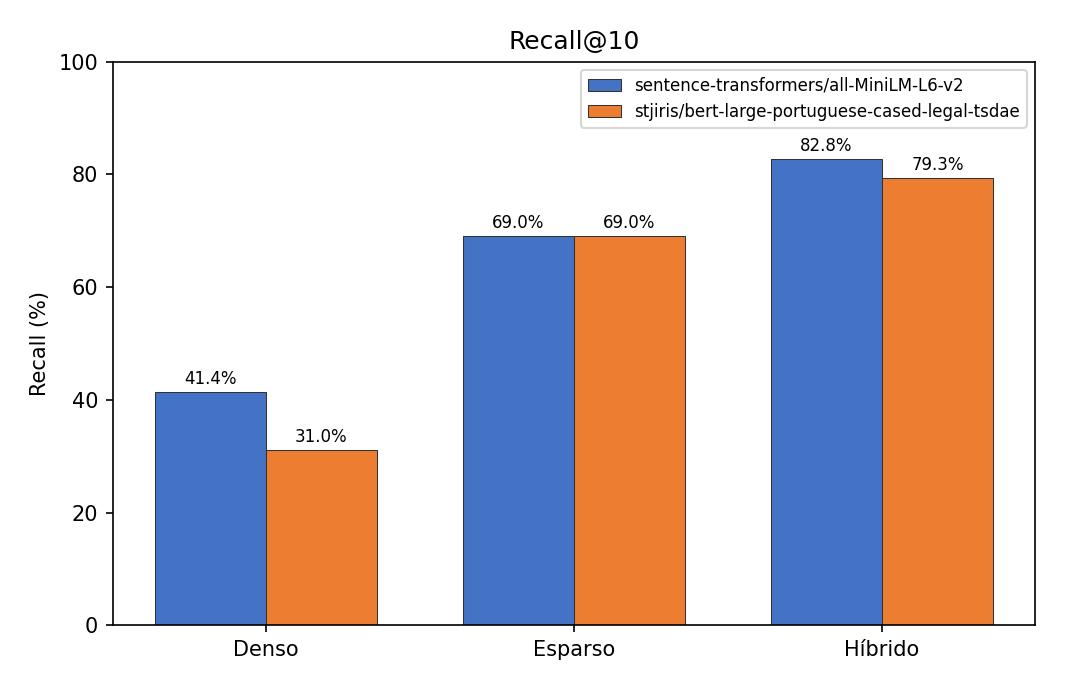
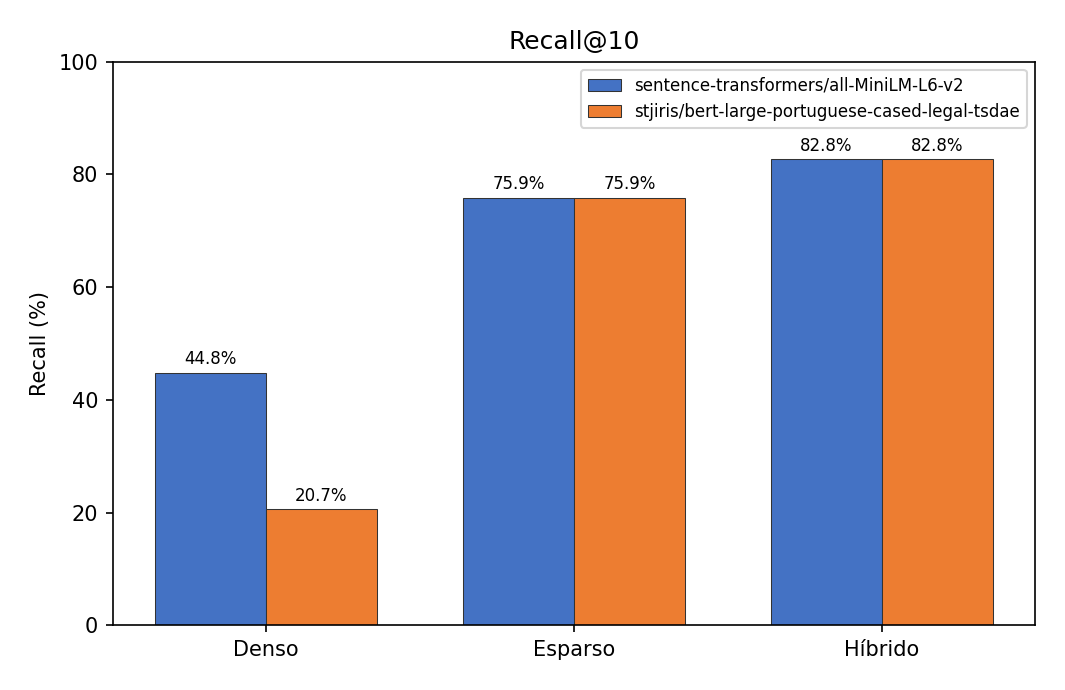
ajuste da rubrica e documentação pos LLM judge

diff --git a/scripts/gerar_doc_apresentacao.py b/scripts/gerar_doc_apresentacao.py
@@ -1,0 +1,211 @@
+"""Gera documento-base para apresentação oral (projeto final PLN / RAG)."""
+from pathlib import Path
+
+from docx import Document
+from docx.enum.text import WD_PARAGRAPH_ALIGNMENT
+from docx.shared import Pt
+
+ROOT = Path(__file__).resolve().parent.parent
+OUT = ROOT / "Apresentacao_Projeto_Final_PLN.docx"
+
+
+def add_heading_r(doc, text, level=1):
+    h = doc.add_heading(text, level=level)
+    return h
+
+
+def add_p(doc, text, bold=False):
+    p = doc.add_paragraph()
+    run = p.add_run(text)
+    run.bold = bold
+    run.font.size = Pt(11)
+    return p
+
+
+def add_bullets(doc, items):
+    for it in items:
+        doc.add_paragraph(it, style="List Bullet")
+
+
+def main():
+    doc = Document()
+    t = doc.add_heading(
+        "Apresentação — Projeto Final PLN (IFG)",
+        0,
+    )
+    t.alignment = WD_PARAGRAPH_ALIGNMENT.CENTER
+
+    add_p(
+        doc,
+        "Documento-base para slides e fala (~15 minutos). Público: banca (docentes) e turma de pós-graduação em Computação.",
+    )
+    add_p(doc, "")
+
+    add_heading_r(doc, "1. Timing sugerido (total ~15 min)", 1)
+    add_bullets(
+        doc,
+        [
+            "Contexto e problema (2 min)",
+            "Objetivos e organização do trabalho (2 min)",
+            "Pipeline e técnicas — Trilha A (4 min)",
+            "Modelos e configuração (2 min)",
+            "Avaliação: Recall@k e rubrica qualitativa (3 min)",
+            "Resultados, observações e limitações (2 min)",
+        ],
+    )
+
+    add_heading_r(doc, "2. Contexto", 1)
+    add_p(
+        doc,
+        "O projeto implementa um sistema de consulta em linguagem natural sobre pareceres tributários "
+        "da SEFAZ-GO (ICMS, FUNDEINFRA, regimes especiais), com documentos obtidos a partir do portal "
+        "público de pareceres do Estado. O desafio é combinar recuperação de informação em texto "
+        "jurídico em português com geração de respostas fundamentadas (RAG), evitando invenção de "
+        "normas e permitindo verificação por citações aos trechos recuperados.",
+    )
+
+    add_heading_r(doc, "3. Objetivos", 1)
+    add_bullets(
+        doc,
+        [
+            "Construir pipeline reprodutível: coleta → transformação → ingestão semântica → indexação híbrida → chat.",
+            "Cumprir a Trilha A: recuperação densa (embeddings), esparsa (BM25) e fusão por RRF.",
+            "Medir qualidade do retriever com Recall@k (k ∈ {3, 5, 10}) e golden set com 29 perguntas válidas.",
+            "Comparar dois encoders: MiniLM (geral) vs. modelo jurídico (BERT legal português).",
+            "Avaliar qualitativamente respostas (groundedness, correção, citações, alucinação, recusa).",
+            "Disponibilizar interface Streamlit para demonstrar os três modos de busca lado a lado.",
+        ],
+    )
+
+    add_heading_r(doc, "4. Organização do desenvolvimento", 1)
+    add_p(doc, "Fases técnicas (monorepositório Python 3.11):", bold=True)
+    add_bullets(
+        doc,
+        [
+            "Scraping: download controlado a partir da URL configurada; manifesto em `data/raw/`.",
+            "Transform: conversão para Markdown (MarkItDown / LibreOffice para formatos legados); normalização opcional de títulos jurídicos.",
+            "Ingest: chunking em dois níveis — secções (EMENTA, RELATÓRIO, FUNDAMENTAÇÃO, …) e janela de tokens (max_tokens ~700, overlap ~140); metadados e texto enriquecido para o denso.",
+            "Index: embeddings no ChromaDB + índice BM25 persistido (`bm25_index.pkl`).",
+            "Avaliação: `pipeline.py --step evaluate` e script `run_recall_at_k_values.py` para consolidar métricas em `docs/dados/recall_por_k.json`.",
+            "Interface: `streamlit run app/app.py` com seleção Híbrido / Denso / Esparso.",
+        ],
+    )
+
+    add_heading_r(doc, "5. Técnicas principais", 1)
+    add_heading_r(doc, "5.1 Recuperação densa", 2)
+    add_p(
+        doc,
+        "SentenceTransformers + ChromaDB: cada chunk (texto enriquecido com título, seção, normas, tributos) "
+        "é vetorizado na indexação; na consulta, a pergunta é codificada no mesmo espaço e recuperam-se os "
+        "vizinhos mais próximos.",
+    )
+    add_heading_r(doc, "5.2 Recuperação esparsa (BM25)", 2)
+    add_p(
+        doc,
+        "BM25Okapi sobre tokens da query e do corpus de chunks; privilegia correspondência lexical (siglas, "
+        "nomes de institutos, referências exatas). Não depende do modelo de embeddings — por isso os resultados "
+        "\"esparsos\" são idênticos ao trocar apenas MiniLM por BERT legal.",
+    )
+    add_heading_r(doc, "5.3 Híbrido — Reciprocal Rank Fusion (RRF)", 2)
+    add_p(
+        doc,
+        "Duas listas ranqueadas (denso e esparso) fundem-se somando 1/(k_rrf + rank + 1) por lista; o mesmo chunk_id "
+        "aparece uma vez com score agregado (efeito de deduplicação lógica). Hiperparâmetro rrf_k = 60; top_k = 5 "
+        "na avaliação típica; reranker opcional desativado neste trabalho.",
+    )
+    add_heading_r(doc, "5.4 Geração (LLM)", 2)
+    add_p(
+        doc,
+        "LangChain com Ollama (ex.: Ministral) ou Google Gemini, conforme configuração. Prompt exige ancoragem nos "
+        "trechos, citações no formato [[TRECHO_n]] e recusa padronizada quando não há suporte no contexto.",
+    )
+
+    add_heading_r(doc, "6. Modelos utilizados", 1)
+    add_bullets(
+        doc,
+        [
+            "Embeddings (comparação experimental): sentence-transformers/all-MiniLM-L6-v2 vs. stjiris/bert-large-portuguese-cased-legal-tsdae.",
+            "LLM local: Ollama (ex.: ministral-3:8b); alternativa: API Google (Gemini) com chave em .env.",
+            "Tokenização NLTK na divisão por tokens e na query BM25 (com fallback regex).",
+        ],
+    )
+
+    add_heading_r(doc, "7. Avaliação", 1)
+    add_p(doc, "Quantitativo:", bold=True)
+    add_bullets(
+        doc,
+        [
+            "Recall@k: documento esperado do golden presente em qualquer um dos top-k chunks (29 casos).",
+            "Valores consolidados em docs/dados/recall_por_k.json (atualização de referência 2026-04-02).",
+        ],
+    )
+    add_p(doc, "Qualitativo:", bold=True)
+    add_bullets(
+        doc,
+        [
+            "Rubrica (≥15 avaliações) com critérios: groundedness, correção, citações, alucinação, recusa.",
+            "Exemplos: FundEinfra (BM25 forte), pergunta ANVISA fora do corpus (recusa no denso vs. alucinação no esparso).",
+        ],
+    )
+
+    add_heading_r(doc, "8. Resultados numéricos (destaque — MiniLM, 29 casos)", 1)
+    add_p(doc, "Recall por modo (valores do JSON consolidado):", bold=True)
+    add_bullets(
+        doc,
+        [
+            "k=3 — Denso 24,14% (7/29) | Esparso 65,52% (19/29) | Híbrido 55,17% (16/29).",
+            "k=5 — Denso 27,59% (8/29) | Esparso 72,41% (21/29) | Híbrido 68,97% (20/29).",
+            "k=10 — Denso 44,83% (13/29) | Esparso 75,86% (22/29) | Híbrido 82,76% (24/29).",
+        ],
+    )
+    add_p(
+        doc,
+        "Interpretação: o esparso supera o denso MiniLM neste golden; o híbrido melhora o denso em todos os k; "
+        "em k=3 e k=5 fica abaixo do só BM25; em k=10 supera denso e esparso e o denso sobe face a k=5.",
+    )
+    add_p(doc, "BERT legal no denso:", bold=True)
+    add_bullets(
+        doc,
+        [
+            "Denso piora frente ao MiniLM em k=3 e k=5; esparso idêntico entre modelos (BM25).",
+            "Híbrido: Recall@5 BERT 72,41% (21/29) vs. MiniLM 68,97% (20/29); em k=10 ambos 82,76% (24/29).",
+        ],
+    )
+
+    add_heading_r(doc, "9. Observações pertinentes", 1)
+    add_bullets(
+        doc,
+        [
+            "Concorrência GPU: embeddings (PyTorch) e Ollama podem disputar VRAM — documentado no README (CPU nos embeddings na demo quando necessário).",
+            "Latência: prompts longos (vários chunks) + duas passagens LLM possíveis (correção de citações) aumentam tempo de resposta.",
+            "Chunking por token pode cortar listas ou artigos ao meio; trade-off por tamanho estável de contexto.",
+            "Fora do corpus: métrica automática de Recall ignora linhas sem gabarito; rubrica e interface testam recusa e alucinação.",
+        ],
+    )
+
+    add_heading_r(doc, "10. Encerramento e demonstração", 1)
+    add_bullets(
+        doc,
+        [
+            "Mensagem central: RAG híbrido é adequado a pareceres com léxico técnico; RRF recupera falhas do denso isolado neste conjunto.",
+            "Demo sugerida: mesma pergunta nos três modos + painel de trechos recuperados.",
+            "Reprodutibilidade: config.yaml + pipeline documentado no README e RELATORIO_PR7.md.",
+        ],
+    )
+
+    add_heading_r(doc, "Referências rápidas no repositório", 1)
+    add_bullets(
+        doc,
+        [
+            "RELATORIO_PR7.md — relatório técnico completo.",
+            "README.md — instalação, etapas do pipeline, GPU/CPU.",
+            "app/app.py — interface; src/rag_core.py — retrieve + LLM; src/pipeline.py — ingest/index.",
+        ],
+    )
+
+    doc.save(OUT)
+    print(f"Escrito: {OUT}")
+
+
+if __name__ == "__main__":
+    main()

diff --git a/RELATORIO_PR7.md b/RELATORIO_PR7.md
@@ -94,13 +94,13 @@ Valores de `docs/dados/recall_por_k.json` (primeira entrada de `runs` — MiniLM
 
 | k | Denso | Esparso | Híbrido | Nota |
 |---|-------|---------|---------|------|
-| 3 | 31,03% (9/29) | 65,52% (19/29) | 62,07% (18/29) | Híbrido **supera** o denso (+31 pontos percentuais); fica **ligeiramente abaixo** do só BM25 (−3,45 p.p.). |
-| 5 | 41,38% (12/29) | 68,97% (20/29) | 72,41% (21/29) | Híbrido **supera** denso e **supera** esparso. |
-| 10 | 41,38% (12/29) | 68,97% (20/29) | 82,76% (24/29) | Híbrido **supera** ambos; denso **estagna** face a k=5 neste conjunto. |
+| 3 | 24,14% (7/29) | 65,52% (19/29) | 55,17% (16/29) | Híbrido **supera** o denso (+31,03 p.p.); fica **abaixo** do só BM25 (−10,35 p.p.). |
+| 5 | 27,59% (8/29) | 72,41% (21/29) | 68,97% (20/29) | Híbrido **supera** o denso (+41,38 p.p.); fica **ligeiramente abaixo** do esparso (−3,44 p.p.). |
+| 10 | 44,83% (13/29) | 75,86% (22/29) | 82,76% (24/29) | Híbrido **supera** ambos; o denso **melhora** face a k=5 neste conjunto. |
 
 **Interpretação:** o **denso MiniLM** é o elo mais fraco neste golden enquanto o **BM25** já traz forte cobertura lexical. O RRF **corrige** parte da lacuna do denso em k=5 e k=10 ao promover documentos que aparecem bem posicionados em **qualquer** uma das listas. 
 
-Com o **BERT legal** no denso (segunda entrada de `runs`), o denso piora em k=3 e k=5; o híbrido continua a **aproveitar** do modelo esparso e aproxima-se do desempenho do MiniLM no mesmo modo em Recall@5 (72,41% — empate), enquanto em Recall@3 o híbrido BERT (68,97%) **já ultrapassa** o esparso (65,52%).
+Com o **BERT legal** no denso (segunda entrada de `runs`), o denso permanece mais fraco que o MiniLM em k=3 e k=5; o híbrido **aproveita** o esparso — em Recall@5 o BERT legal (**72,41%**, 21/29) **supera** o MiniLM (**68,97%**, 20/29); em Recall@3 o híbrido BERT (**58,62%**, 17/29) fica **abaixo** do esparso (**65,52%**, 19/29).
 
 ### 3.5 Interface
 
@@ -115,25 +115,25 @@ Para avaliação do modelo foi construído um script capaz de rodar os modelos e
 python scripts/run_recall_at_k_values.py --k-values 3,5,10
 ```
 
-**MiniLM** (`sentence-transformers/all-MiniLM-L6-v2`): **Recall@k** por modo de recuperação. Valores extraídos de `docs/dados/recall_por_k.json` (primeira entrada de `runs`; `updated_at`: `2026-03-29T03:12:32.329432+00:00`), com **29** perguntas válidas no denominador.
+**MiniLM** (`sentence-transformers/all-MiniLM-L6-v2`): **Recall@k** por modo de recuperação. Valores extraídos de `docs/dados/recall_por_k.json` (primeira entrada de `runs`; `updated_at`: `2026-04-02T16:06:29.615213+00:00`), com **29** perguntas válidas no denominador.
 
 | k | Modo | Recall (%) | acertos/total |
 |---|------|------------|---------------|
-| 3 | Denso | 31,03 | 9/29 |
+| 3 | Denso | 24,14 | 7/29 |
 | 3 | Esparso | 65,52 | 19/29 |
-| 3 | Hibrido | 62,07 | 18/29 |
-| 5 | Denso | 41,38 | 12/29 |
-| 5 | Esparso | 68,97 | 20/29 |
-| 5 | Hibrido | 72,41 | 21/29 |
-| 10 | Denso | 41,38 | 12/29 |
-| 10 | Esparso | 68,97 | 20/29 |
+| 3 | Hibrido | 55,17 | 16/29 |
+| 5 | Denso | 27,59 | 8/29 |
+| 5 | Esparso | 72,41 | 21/29 |
+| 5 | Hibrido | 68,97 | 20/29 |
+| 10 | Denso | 44,83 | 13/29 |
+| 10 | Esparso | 75,86 | 22/29 |
 | 10 | Hibrido | 82,76 | 24/29 |
 
 Resumo **Recall@5** (baseline MiniLM, conforme JSON):
 
-- Modo Denso: **41,38%** (12/29)
-- Modo Esparso: **68,97%** (20/29)
-- Modo Hibrido: **72,41%** (21/29)
+- Modo Denso: **27,59%** (8/29)
+- Modo Esparso: **72,41%** (21/29)
+- Modo Hibrido: **68,97%** (20/29)
 
 ## 5. 2º Teste: Recall 3, 5 e 10 - Motor Bert Jurídico
 
@@ -141,22 +141,22 @@ Comparação **Recall@k**: colunas **MiniLM** e **BERT legal** correspondem, res
 
 | k | Modo | MiniLM — Recall (%) | MiniLM — acertos/total | BERT legal — Recall (%) | BERT legal — acertos/total |
 |---|------|---------------------|------------------------|-------------------------|----------------------------|
-| 3 | Denso | 31,03 | 9/29 | 17,24 | 5/29 |
+| 3 | Denso | 24,14 | 7/29 | 10,34 | 3/29 |
 | 3 | Esparso | 65,52 | 19/29 | 65,52 | 19/29 |
-| 3 | Hibrido | 62,07 | 18/29 | 68,97 | 20/29 |
-| 5 | Denso | 41,38 | 12/29 | 17,24 | 5/29 |
-| 5 | Esparso | 68,97 | 20/29 | 68,97 | 20/29 |
-| 5 | Hibrido | 72,41 | 21/29 | 72,41 | 21/29 |
-| 10 | Denso | 41,38 | 12/29 | 31,03 | 9/29 |
-| 10 | Esparso | 68,97 | 20/29 | 68,97 | 20/29 |
-| 10 | Hibrido | 82,76 | 24/29 | 79,31 | 23/29 |
+| 3 | Hibrido | 55,17 | 16/29 | 58,62 | 17/29 |
+| 5 | Denso | 27,59 | 8/29 | 10,34 | 3/29 |
+| 5 | Esparso | 72,41 | 21/29 | 72,41 | 21/29 |
+| 5 | Hibrido | 68,97 | 20/29 | 72,41 | 21/29 |
+| 10 | Denso | 44,83 | 13/29 | 20,69 | 6/29 |
+| 10 | Esparso | 75,86 | 22/29 | 75,86 | 22/29 |
+| 10 | Hibrido | 82,76 | 24/29 | 82,76 | 24/29 |
 
 Experimento: alteração controlada do modelo de embeddings para `stjiris/bert-large-portuguese-cased-legal-tsdae`.
 
 **Recall@5 (BERT legal), conforme JSON:**
 
-- Denso: **17,24%** (5/29)
-- Esparso: **68,97%** (20/29)
+- Denso: **10,34%** (3/29)
+- Esparso: **72,41%** (21/29)
 - Hibrido: **72,41%** (21/29)
 
 ## 6. Conclusao Técnica
@@ -167,9 +167,9 @@ Experimento: alteração controlada do modelo de embeddings para `stjiris/bert-l
 
 ![Recall@10 — MiniLM vs BERT legal](docs/imagens/recall_k10.png)
 
-Com o golden set atual (**29** casos válidos neste JSON), o embedding jurídico permanece **abaixo** do MiniLM no modo **denso** em todos os **k**: Recall@3 **17,24%** (5/29) vs **31,03%** (9/29); Recall@5 **17,24%** (5/29) vs **41,38%** (12/29); Recall@10 **31,03%** (9/29) vs **41,38%** (12/29). No modo **esparso**, os dois modelos **empatam** em cada **k** (idem acertos/total: 19/29, 20/29 e 20/29, por o BM25 não depender do modelo de embeddings). No modo **híbrido**, Recall@5 é **72,41%** (21/29) para ambos; em Recall@10 o **MiniLM** regista **82,76%** (24/29) e o **BERT legal** **79,31%** (23/29).
+Com o golden set atual (**29** casos válidos neste JSON), o embedding jurídico permanece **abaixo** do MiniLM no modo **denso** em todos os **k**: Recall@3 **10,34%** (3/29) vs **24,14%** (7/29); Recall@5 **10,34%** (3/29) vs **27,59%** (8/29); Recall@10 **20,69%** (6/29) vs **44,83%** (13/29). No modo **esparso**, os dois modelos **empatam** em cada **k** (idem acertos/total: 19/29, 21/29 e 22/29, por o BM25 não depender do modelo de embeddings). No modo **híbrido**, Recall@5 regista **68,97%** (20/29) no MiniLM e **72,41%** (21/29) no BERT legal; em Recall@10 **ambos** atingem **82,76%** (24/29).
 
-Em síntese, com estes números consolidados em `recall_por_k.json`, **não** há ganho do BERT sobre o MiniLM em Recall@5 no híbrido (empate). A **Trilha A** mantém-se justificada porque o **híbrido** supera, em geral, denso e esparso isolados; a escolha do embedding deve equilibrar **custo/tempo** (BERT maior).
+Em síntese, com estes números consolidados em `recall_por_k.json`, o BERT legal **supera** ligeiramente o MiniLM em Recall@5 no híbrido (**72,41%** vs **68,97%**). A **Trilha A** mantém-se justificada porque o **híbrido** supera, em geral, denso e esparso isolados; a escolha do embedding deve equilibrar **custo/tempo** (BERT maior).
 
 ## 7. Analise por rubrica qualitativa
 
@@ -245,9 +245,9 @@ Com base **somente** nas anotações de `rubrica_qualitativa.xlsx` (raiz do proj
 
 2. **Robustez quando o embedding denso desvia** — No caso **caminhonete / veículo utilitário**, o avaliador registra que o **denso** recuperou trechos **fora do tema** (ainda no “universo” tributário, mas irrelevantes). O **BM25** manteve **quatro** chunks do parecer esperado no topo, com **menos dispersão semântica** para esta formulação da pergunta. Isso acontece pois o modo denso buscava sinônimos ou termos semelhantes estatisticamente, enquanto o esparso busca por relevância. 
 
-3. **Consistência com a métrica automática** — O **Recall@5** esparso (**68,97%**, 20/29) já indicava vantagem sobre o denso (**41,38%**, 12/29) no mesmo golden; a rubrica **confirma qualitativamente** que, em perguntas **ancoradas no léxico** dos pareceres de Goiás, o **esparso é frequentemente o modo mais seguro** quando o utilizador não reformula a pergunta em linguagem “próxima” do espaço semântico do modelo de embeddings.
+3. **Consistência com a métrica automática** — O **Recall@5** esparso (**72,41%**, 21/29) já indicava vantagem sobre o denso (**27,59%**, 8/29) no mesmo golden; a rubrica **confirma qualitativamente** que, em perguntas **ancoradas no léxico** dos pareceres de Goiás, o **esparso é frequentemente o modo mais seguro** quando o utilizador não reformula a pergunta em linguagem “próxima” do espaço semântico do modelo de embeddings.
 
-4. **Ressalva obrigatória: temas fora do corpus** — Na pergunta **ANVISA**, o **BM25** obteve **piores** notas em todos os critérios e **alucinação** explícita na rubrica; o **denso** foi o único a **recusar** corretamente. Logo, a “melhor escolha” do BM25 **não é universal**: para **consultas claramente ausentes** do acervo, o relatório recomenda **priorizar o modo denso** (ou políticas de recusa no LLM). Outras estratégias podem ser adotadas para melhor refino das respostas, como por exemplo a duplicação do prompt antes da LLM enviar a resposta para o usuário: garante assim que mesmo passando no primeiro filtro, a resposta final garanta o tratamento para temas fora do corpus.
+4. **Ressalva obrigatória: temas fora do corpus** — Inicialmente rodamos os testes com ambos os modelos apenas com **engenharia de prompt** com **few-shot prompting**. Essa abordagem não estava tratando totalmente os temas fora do corpus, gerando alucinação e respostas corretas mas fora do contexto restrito dos documentos. Dessa forma fizemos um **loop** que verifica a resposta da gerada pela LLM e reavalia, tendo em vista a pergunta inicial (*LLM as judge*)
 
 Em síntese, para o **domínio deste chatbot** (pareceres tributários GO com perguntas ricas em **nomes de institutos, normas e fatos concretos**), a rubrica qualitativa **reforça o BM25** como **baseline forte** frente ao denso isolado, **coerente** com o Recall quantitativo, com a **exceção documentada** de perguntas **sem suporte no corpus**, onde o **denso** foi superior na **recusa**.
 
